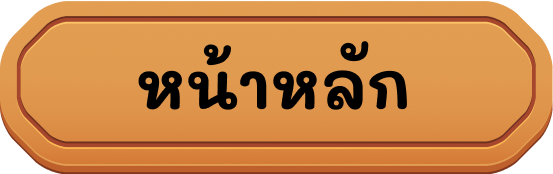
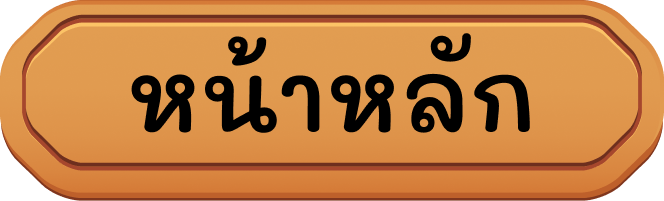
main

diff --git a/app/components/SceneHome.tsx b/app/components/SceneHome.tsx
@@ -64,6 +64,16 @@ export default function SceneHome() {
     };
   }, []);
 
+  useEffect(() => {
+    if (isFading) {
+      const timeout = setTimeout(() => {
+        const content = document.getElementById('after-video');
+        content?.scrollIntoView({ behavior: 'smooth' });
+      }, 1000); // รอ 1 วินาทีหลังเริ่ม fade
+  
+      return () => clearTimeout(timeout);
+    }
+  }, [isFading]);
   
    
   return (

diff --git a/app/components/SceneRecycle1.tsx b/app/components/SceneRecycle1.tsx
@@ -131,6 +131,8 @@ export default function SceneRecycle1() {
             alt="garbage"
             width={100}
             height={500}
+            quality={100}
+              unoptimized
             className=" sm:w-[300px] lg:w-[500px] md:w-[300px]"
           />
         </div>

diff --git a/app/components/SceneSea2.tsx b/app/components/SceneSea2.tsx
@@ -58,7 +58,7 @@ export default function SceneSea2() {
           alt="Sea Text"
           width={500}
           height={500}
-          className="w-[55vw] max-w-[1500px] h-auto"
+          className="w-[50vw] max-w-[1500px] h-auto"
         />
       </div>
     </section>
